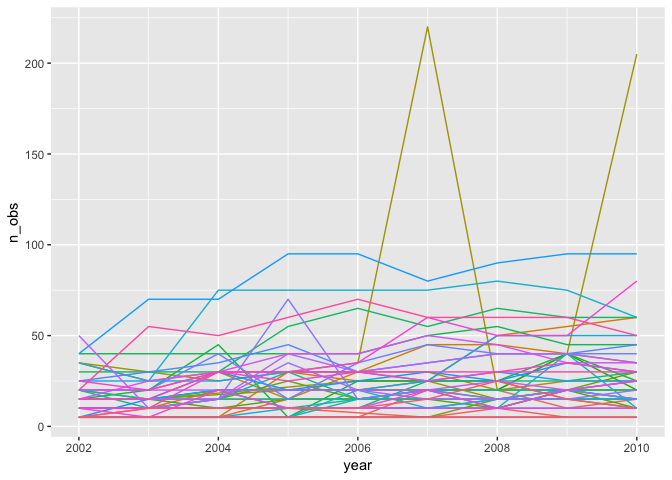
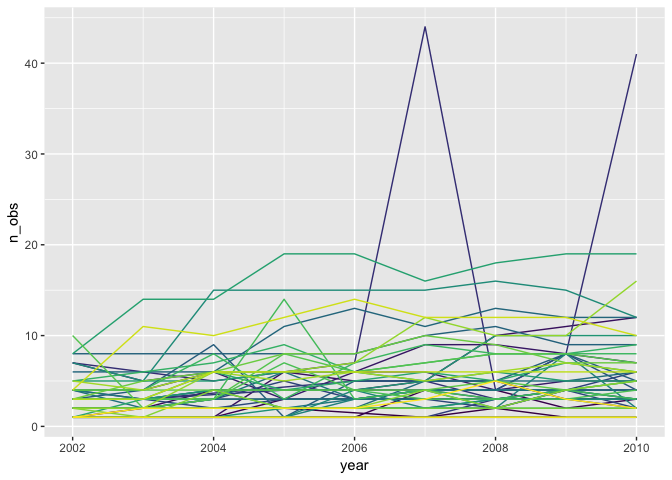
Version 4
1. Finish draft for problem 1, need to make plots more readable

diff --git a/p8105_hw3_zf2213.md b/p8105_hw3_zf2213.md
@@ -32,32 +32,43 @@ brfss <- p8105.datasets::brfss_smart2010 %>%
 *Q1. In 2002, which states were observed at 7 locations?*
 
 ``` r
-brfss %>% distinct(state, area) %>% 
-          group_by(state) %>% 
+# get year 2002
+brfss %>% filter(year == 2002) %>%
+          # get unique area
+          distinct(state, area) %>%
+          # group by states
+          group_by(state) %>%
+          # number of observations for each state
           summarize(locations = n()) %>%
+          # get states which observed at 7 locations
           filter(locations == 7)
 ```
 
-    ## # A tibble: 7 x 2
+    ## # A tibble: 3 x 2
     ##   state locations
     ##   <chr>     <int>
     ## 1 CT            7
-    ## 2 MT            7
-    ## 3 NH            7
-    ## 4 NM            7
-    ## 5 OR            7
-    ## 6 TN            7
-    ## 7 UT            7
+    ## 2 FL            7
+    ## 3 NC            7
 
-Connecticut, Montana, New Hampshire, New Mexico, Oregon, Tennessee, Utah are observed at 7 locations.
+Connecticut, Florida, North Carolina are observed at 7 locations.
 
 *Q2. Make a “spaghetti plot” that shows the number of observations in each state from 2002 to 2010.*
 
 ``` r
-brfss %>% group_by(state, year) %>% 
-          summarize(n_obs = n()) %>% 
+# get distinct locations for each year each state
+brfss %>% distinct(year, state, area) %>%
+          # group according to year and state
+          group_by(year, state) %>% 
+          # count the number of observations for each year each state
+          summarize(n_obs = n()) %>%
+          # plot the spaghetti plot
           ggplot(aes(x = year, y = n_obs, color = state)) +
           geom_line() +
+          viridis::scale_color_viridis(
+           name = "state",
+           discrete = TRUE
+          ) +
           theme(legend.position = "none")
 ```
 
@@ -65,7 +76,44 @@ brfss %>% group_by(state, year) %>%
 
 *Q3. Make a table showing, for the years 2002, 2006, and 2010, the mean and standard deviation of the proportion of “Excellent” responses across locations in NY State.*
 
+``` r
+# filter out year 2002, 2006, 2010 in NY state with response "Excellent"
+brfss %>% filter(year %in% c(2002, 2006, 2010), response == "Excellent", state == "NY") %>% 
+          # group according to area
+          group_by(area) %>% 
+          # get mean and sd across three years
+          summarize(mean = mean(data_value), sd = sd(data_value)) %>% 
+          # make a readable table
+          knitr::kable()
+```
+
+| area               |      mean|         sd|
+|:-------------------|---------:|----------:|
+| Bronx County       |  17.60000|         NA|
+| Erie County        |  17.20000|         NA|
+| Kings County       |  20.36667|  1.7672955|
+| Monroe County      |  22.40000|         NA|
+| Nassau County      |  24.93333|  2.8219379|
+| New York County    |  27.50000|  1.5394804|
+| Queens County      |  19.63333|  1.3576941|
+| Suffolk County     |  24.10000|  3.2787193|
+| Westchester County |  26.45000|  0.6363961|
+
+Since in Bronx, Erie and Monroe, there were only one observation out of three years, so sd are NAs.
+
 *Q4. For each year and state, compute the average proportion in each response category (taking the average across locations in a state). Make a five-panel plot that shows, for each response category separately, the distribution of these state-level averages over time.*
+
+``` r
+brfss %>% group_by(year, state, response) %>% 
+          summarize(mean = mean(data_value)) %>% 
+          ggplot(aes(x = year, y = mean, color = state)) + 
+            geom_line() +
+            facet_grid(. ~ response)
+```
+
+    ## Warning: Removed 1 rows containing missing values (geom_path).
+
+![](p8105_hw3_zf2213_files/figure-markdown_github/unnamed-chunk-5-1.png)
 
 Problem 2
 ---------
